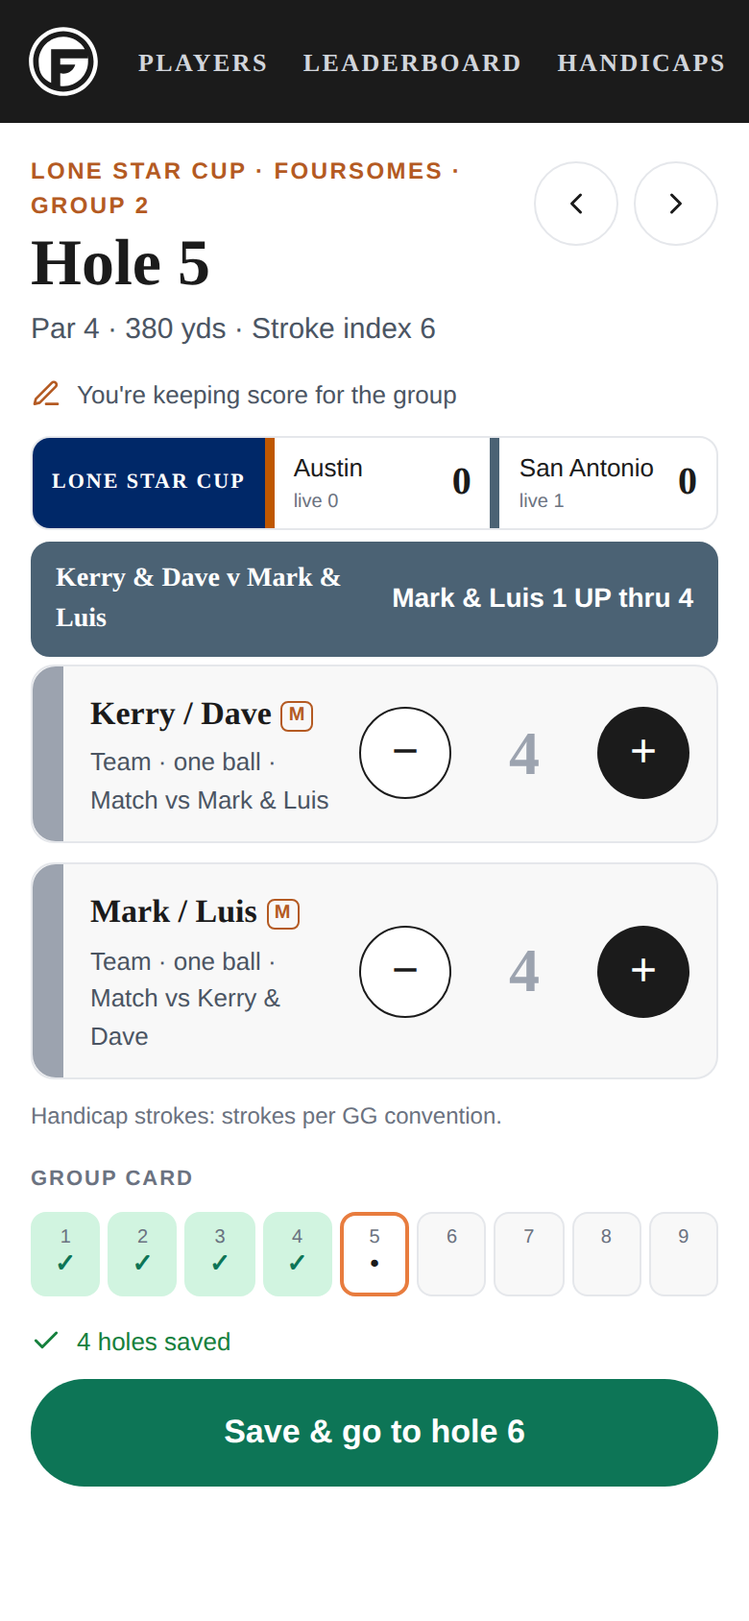
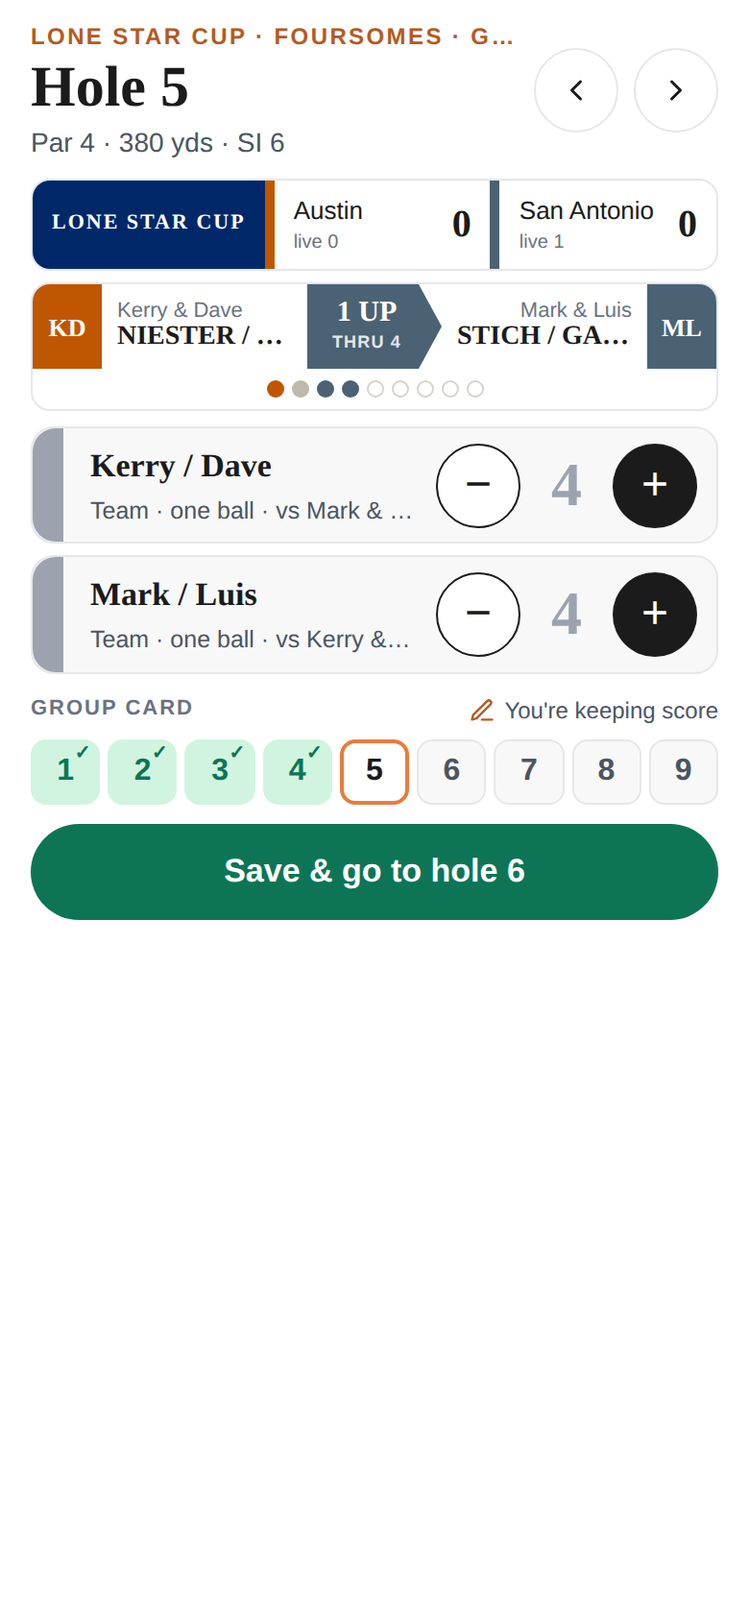
Score entry: standard match card, bigger group card, more room for names
Claude-Session: https://claude.ai/code/session_01PeGTnLppc6bpJPrSmUWsVP

diff --git a/transaction-tracker/templates/score_entry.html b/transaction-tracker/templates/score_entry.html
@@ -131,6 +131,50 @@
         /* Thin light lines between the columns (Kerry 2026-09-26). */
         .se-chk .se-check td + td, .se-chk .se-check th + th { border-left: 1px solid #ECEEF1; }
         .se-chk .se-check thead th + th { border-left-color: rgba(255,255,255,.14); }
+        /* THE STANDARD MATCH VIEW (Match Play tab look). */
+        .se-mcard { border: 1px solid #E5E7EB; border-radius: 10px; overflow: hidden; background: #FFFFFF; position: relative; }
+        .se-mc-head { display: block; width: 100%; padding: 0; border: none; background: none; cursor: pointer;
+                      font-family: inherit; color: inherit; text-align: left; }
+        .se-mc-strip { display: flex; align-items: stretch; min-height: 44px; }
+        .se-mc-mono { width: 36px; flex: none; display: flex; align-items: center; justify-content: center;
+                      font: 700 13px/1 Bitter, Georgia, serif; color: #FFFFFF; }
+        .se-mc-mono.a { background: var(--ma); } .se-mc-mono.b { background: var(--mb); }
+        .se-mc-name { flex: 1; min-width: 0; display: flex; flex-direction: column; justify-content: center; padding: 0 8px; }
+        .se-mc-name.r { align-items: flex-end; text-align: right; }
+        .se-mc-name em { font-style: normal; font-size: 11px; color: #6B7280; white-space: nowrap; overflow: hidden; text-overflow: ellipsis; max-width: 100%; }
+        .se-mc-name b { font: 700 14px/1.1 Bitter, Georgia, serif; text-transform: uppercase; white-space: nowrap;
+                        overflow: hidden; text-overflow: ellipsis; max-width: 100%; }
+        .se-mc-bar { flex: none; min-width: 70px; display: flex; flex-direction: column; align-items: center; justify-content: center;
+                     color: #FFFFFF; font: 700 15px/1 Bitter, Georgia, serif; padding: 0 8px; }
+        .se-mc-bar small { font: 600 9px/1.2 'Helvetica Neue', Helvetica, Arial, sans-serif; letter-spacing: .6px;
+                           text-transform: uppercase; opacity: .85; margin-top: 2px; }
+        .se-mc-bar.a { background: var(--ma); clip-path: polygon(12px 0, 100% 0, 100% 100%, 12px 100%, 0 50%); padding-left: 16px; }
+        .se-mc-bar.b { background: var(--mb); clip-path: polygon(0 0, calc(100% - 12px) 0, 100% 50%, calc(100% - 12px) 100%, 0 100%); padding-right: 16px; }
+        .se-mc-bar.tie { background: #BFB8AC; }
+        .se-mc-dots { display: flex; flex-wrap: wrap; justify-content: center; gap: 4px; padding: 6px 8px; }
+        .se-hd { width: 9px; height: 9px; border-radius: 50%; display: block; }
+        .se-hd.a { background: var(--ma); } .se-hd.b { background: var(--mb); } .se-hd.h { background: #BFB8AC; }
+        .se-hd.e { border: 1.5px solid #D6D3CC; }
+        .se-mcard.won::after { content: ""; position: absolute; top: 0; bottom: 0; width: 36%; left: -60%;
+            transform: skewX(-20deg); pointer-events: none;
+            background: linear-gradient(75deg, transparent, rgba(255,255,255,.45), transparent);
+            animation: seChampShine 3.4s ease-in-out infinite; }
+        .se-mcard.won { box-shadow: 0 0 0 2px #D4A017, 0 4px 14px rgba(212,160,23,.28); }
+        .se-mc-grid { border-top: 1px solid #E5E7EB; padding: 6px 6px 8px; }
+        .se-mc-grid table { width: 100%; border-collapse: collapse; table-layout: fixed; font-variant-numeric: tabular-nums; margin-bottom: 6px; }
+        .se-mc-grid th, .se-mc-grid td { text-align: center; font-size: 13px; padding: 4px 0; position: relative; }
+        .se-mc-grid th:first-child { width: 36px; }
+        .se-mc-grid tr.h td, .se-mc-grid tr.h th { background: #1B1B1B; color: #FFFFFF; font-size: 11px; font-weight: 700; }
+        .se-mc-grid tr.p td, .se-mc-grid tr.p th { color: #6B7280; font-size: 11px; }
+        .se-mc-grid td.dim { color: #C4C4C4; }
+        .se-mc-grid .w { display: inline-block; min-width: 22px; line-height: 20px; border-radius: 11px; color: #FFFFFF; font-weight: 700; }
+        .se-mc-grid .w.a { background: var(--ma); } .se-mc-grid .w.b { background: var(--mb); }
+        .se-mc-grid .pu { display: inline-block; min-width: 20px; line-height: 18px; border-radius: 10px; box-shadow: inset 0 0 0 1.5px #E87C3E; }
+        .se-mc-grid .pp { position: absolute; top: 1px; left: 0; right: 0; display: flex; justify-content: center; gap: 1px; }
+        .se-mc-grid .pp i { width: 4px; height: 4px; border-radius: 50%; background: #1B1B1B; display: block; }
+        .se-mc-chip { display: inline-block; min-width: 24px; padding: 2px 3px; border-radius: 4px; color: #FFFFFF; font: 700 10px Bitter, Georgia, serif; }
+        .se-mc-chip.a { background: var(--ma); } .se-mc-chip.b { background: var(--mb); }
+        .se-mc-note { font-size: 11px; color: #6B7280; text-align: center; }
         .se-lblrow { display: flex; justify-content: space-between; align-items: center; margin-top: 10px; }
         .se-keepnote { display: inline-flex; align-items: center; gap: 5px; font-size: 12px; color: #4B5563; }
         .se-keepnote svg { width: 14px; height: 14px; }
@@ -142,7 +186,8 @@
         .se-hole .se-nav { padding-top: 0; }
         .se-hole .se-mstrip { margin: 8px 0 2px; }
         .se-hole .se-stack { gap: 6px; margin-top: 8px; }
-        .se-hole .se-row { padding: 7px 10px; gap: 10px; }
+        .se-hole .se-row { padding: 7px 10px; gap: 4px; }
+        .se-hole .se-who { margin-right: 6px; }
         .se-hole .se-who { gap: 1px; }
         .se-hole .se-name { font-size: 17px; display: flex; align-items: center; min-width: 0; white-space: nowrap; }
         .se-hole .se-name .nm { overflow: hidden; text-overflow: ellipsis; min-width: 0; }
@@ -150,7 +195,7 @@
         .se-hole .se-meta { font-size: 12.5px; white-space: nowrap; overflow: hidden; text-overflow: ellipsis; }
         .se-hole .se-minus, .se-hole .se-plus { width: 44px; height: 44px; }
         .se-hole .se-pops { height: 44px; }
-        .se-hole .se-score { width: 46px; }
+        .se-hole .se-score { width: 40px; }
         .se-hole .se-popkey { margin-top: 6px; }
         .se-hole .se-cell { height: 34px; }
         .se-hole .se-pill { height: 50px; margin-top: 10px; }
@@ -161,10 +206,15 @@
         .se-cell { height: 44px; border-radius: 8px; display: flex; flex-direction: column; align-items: center;
                    justify-content: center; background: #F8F8F8; border: 1px solid #E5E7EB; cursor: pointer;
                    font-family: inherit; color: #1B1B1B; padding: 0; }
-        .se-cell .n { font-size: 10px; color: #6B7280; }
-        .se-cell .k { font-size: 13px; font-weight: 700; min-height: 16px; }
+        /* GROUP CARD (Kerry 2026-09-26: "Numbers ... should be bigger and centered
+           ... turn the same green and have the little checkmark in the upper
+           right"). */
+        .se-cell { position: relative; }
+        .se-cell .n { font-size: 16px; font-weight: 700; color: #4B5563; font-variant-numeric: tabular-nums; }
+        .se-cell .k { position: absolute; top: 2px; right: 4px; font-size: 10px; font-weight: 800; line-height: 1; }
         .se-cell.saved { background: #d1f4e0; border-color: #d1f4e0; color: #0d7556; }
-        .se-cell.saved .k { color: #0d7556; }
+        .se-cell.saved .n, .se-cell.saved .k { color: #0d7556; }
+        .se-cell.cur .n { color: #1B1B1B; }
         .se-cell.waiting { background: #FEF3C7; border-color: #FEF3C7; }
         .se-cell.cur { background: #FFFFFF; border: 2px solid #E87C3E; }
         .se-status { display: flex; align-items: center; gap: 8px; font-size: 13px; color: #15803D; margin: 14px 0 10px; }
@@ -279,46 +329,13 @@
         .se-card tr.me td.nm { box-shadow: inset 4px 0 0 #E87C3E; }
         /* MATCH STANDING while scoring (Kerry: "show match progress") */
         .se-mstrip { display: flex; flex-direction: column; gap: 6px; margin: 10px 0 4px; }
-        .se-mline { display: flex; justify-content: space-between; align-items: center; gap: 8px;
-                    padding: 8px 12px; border-radius: 10px; background: #FFF4EC; border: 1px solid #F5C8A8;
-                    font-size: 14px; white-space: normal; }
-        .se-mline .who { font-family: Bitter, Georgia, serif; font-weight: 700; }
-        .se-mline .st { font-weight: 700; color: #B45A22; white-space: nowrap; }
-        .se-mline.final { background: #F8F8F8; border-color: #E5E7EB; }
-        .se-mline.final .st { color: #1B1B1B; }
         /* A WON MATCH SHIMMERS (Kerry 2026-09-26: "kind of like our champion
            banner on the Points Races") — the champion plaque from
            contests.html: TGF-dark, gold frame, gold-gradient text, a slow
            shine sweeping across. */
-        .se-mline.won { position: relative; overflow: hidden; border: 1px solid #D4A017;
-            background: linear-gradient(135deg, #1B1B1B 0%, #2E2414 55%, #1B1B1B 100%);
-            box-shadow: inset 0 0 0 2px #1B1B1B, inset 0 0 0 3px rgba(212,160,23,.55), 0 4px 14px rgba(212,160,23,.28); }
-        .se-mline.won .who { color: #D4A017; }
-        .se-mline.won .st { font-family: Bitter, Georgia, serif; font-weight: 800; color: #FFD75E;
-            background: linear-gradient(100deg, #F7E7A0 0%, #FFD75E 35%, #E0A93C 62%, #F7E7A0 100%);
-            -webkit-background-clip: text; background-clip: text; -webkit-text-fill-color: transparent; }
-        .se-mline.won::after { content: ""; position: absolute; top: -60%; bottom: -60%; width: 36%; left: -60%;
-            transform: skewX(-20deg); pointer-events: none;
-            background: linear-gradient(75deg, transparent, rgba(255,255,255,.16), transparent);
-            animation: seChampShine 3.4s ease-in-out infinite; }
         /* LONE STAR CUP (Kerry 2026-09-26): "the match position banner needs to
            be the team color who's in the lead ... the shimmering banner needs to
            be color coordinated as well." Austin burnt orange, San Antonio slate. */
-        .se-mline.lead-austin { background: #BF5700; border-color: #BF5700; color: #FFFFFF; }
-        .se-mline.lead-sa { background: #4B6274; border-color: #4B6274; color: #FFFFFF; }
-        .se-mline.lead-austin .st, .se-mline.lead-sa .st { color: #FFFFFF; }
-        .se-mline.won.lead-austin { border-color: #FFD75E;
-            background: linear-gradient(135deg, #8A3F00 0%, #BF5700 55%, #8A3F00 100%);
-            box-shadow: inset 0 0 0 2px #8A3F00, inset 0 0 0 3px rgba(255,215,94,.7), 0 4px 14px rgba(191,87,0,.35); }
-        .se-mline.won.lead-sa { border-color: #FFD75E;
-            background: linear-gradient(135deg, #2F3F4C 0%, #4B6274 55%, #2F3F4C 100%);
-            box-shadow: inset 0 0 0 2px #2F3F4C, inset 0 0 0 3px rgba(255,215,94,.7), 0 4px 14px rgba(75,98,116,.35); }
-        .se-mline.won.lead-austin .who, .se-mline.won.lead-sa .who { color: #FFFFFF; }
-        .se-mline.won.lead-austin .st, .se-mline.won.lead-sa .st {
-            background: linear-gradient(100deg, #FFFFFF 0%, #FFE9A8 40%, #FFD75E 60%, #FFFFFF 100%);
-            -webkit-background-clip: text; background-clip: text; -webkit-text-fill-color: transparent; }
-        .se-mline.won.lead-austin::after, .se-mline.won.lead-sa::after {
-            background: linear-gradient(75deg, transparent, rgba(255,255,255,.28), transparent); }
         .se-x { font-family: Bitter, Georgia, serif; font-weight: 800; }
         @keyframes seChampShine { 0% { left: -60%; } 55% { left: 135%; } 100% { left: 135%; } }
         /* LONE STAR CUP team standings beside the match */
@@ -662,7 +679,7 @@
         function stripCells(order, current) {
             return order.map((n) => {
                 const cls = n === current ? "cur" : holeWaiting(n) ? "waiting" : holeDone(n) ? "saved" : "";
-                const mark = n === current ? "&bull;" : holeWaiting(n) ? "&hellip;" : holeDone(n) ? "&#10003;" : "";
+                const mark = n === current ? "" : holeWaiting(n) ? "&hellip;" : holeDone(n) ? "&#10003;" : "";
                 return `<button type="button" class="se-cell ${cls}" data-act="goto" data-h="${n}" aria-label="Hole ${n}"><span class="n">${n}</span><span class="k">${mark}</span></button>`;
             }).join("");
         }
@@ -689,19 +706,75 @@
             const cup = cs ? `<div class="se-cup"><span class="lbl">Lone Star Cup</span>
                 <span class="tm aus"><span>Austin<span class="proj">live ${half(cs.austin_projected)}</span></span><b>${half(cs.austin)}</b></span>
                 <span class="tm sa"><span>San Antonio<span class="proj">live ${half(cs.sa_projected)}</span></span><b>${half(cs.sa)}</b></span></div>` : "";
-            return `<div class="se-mstrip">${cup}${ms.map((m) => {
-                const vs = `${esc(m.names[0])} v ${esc(m.names[1])}`;
-                let st;
-                if (!m.thru) st = "Not started";
-                // A tie: the Lone Star Cup halves; regular-season Match Play
-                // settles it by its rulings (pool: may halve; knockout: extra
-                // holes or a putt-off), so the phone says all square, not halved.
-                else if (m.lead_side == null) st = m.final ? (m.tie_rule === "halve" ? "Halved" : `All square after ${m.thru}`) : `All square thru ${m.thru}`;
-                else st = `${esc(m.names[m.lead_side])} ${m.final ? "wins " + esc(m.margin) : esc(m.margin) + " thru " + m.thru}`;
-                const won = m.final && m.lead_side != null;
-                const lead = m.cup && m.lead_team ? " lead-" + m.lead_team : "";
-                return `<div class="se-mline ${won ? "won" : m.final && !lead ? "final" : ""}${lead}"><span class="who">${vs}</span><span class="st">${st}</span></div>`;
-            }).join("")}</div>`;
+            return `<div class="se-mstrip">${cup}${ms.map(matchCard).join("")}</div>`;
+        }
+        // THE STANDARD MATCH VIEW (Kerry 2026-09-26: "like the other match play
+        // page ... if I click it it will show that match scorecard below it and
+        // ... when it's collapsed it would show the colored dots ... something
+        // like attached because that will be a standard match play view").
+        // The Match Play tab's card: initials, first / LAST, the margin arrow in
+        // the leader's colour pointing at him, one dot per hole in play order
+        // (side A / side B / halved; hollow = not played or after the match was
+        // decided). Tap it for the hole-by-hole card. Cup colours in the Lone
+        // Star Cup (Austin / San Antonio), slate and clay otherwise.
+        const mOpen = new Set();
+        function matchCard(m) {
+            const cup = !!m.cup;
+            const col = cup ? ["#BF5700", "#4B6274"] : ["#2F5D74", "#C1673F"];
+            const fn = m.full_names || [[m.names[0]], [m.names[1]]];
+            const mono = (side) => side.map((n) => (String(n).trim()[0] || "")).join("")
+                + (side.length === 1 ? (String(side[0]).trim().split(/\s+/).slice(-1)[0] || "")[0] || "" : "");
+            const nm = (side, right) => {
+                const f = side.map((n) => String(n).trim().split(/\s+/)[0]).join(" & ");
+                const l = side.map((n) => String(n).trim().split(/\s+/).slice(1).join(" ")).join(" / ");
+                return `<span class="se-mc-name${right ? " r" : ""}"><em>${esc(f)}</em><b>${esc(l)}</b></span>`;
+            };
+            let bar, sub = "";
+            if (!m.thru) { bar = "tie"; sub = "vs"; }
+            else if (m.lead_side == null) { bar = "tie"; sub = m.final ? (m.tie_rule === "halve" ? "HALVED" : "AS") : "AS"; }
+            else { bar = m.lead_side === 0 ? "a" : "b"; sub = m.margin || ""; }
+            const thru = m.thru && !m.final ? `<small>thru ${m.thru}</small>` : m.final && m.thru ? `<small>final</small>` : "";
+            const won = m.final && m.lead_side != null;
+            const holes = (m.card || []).slice().sort((x, y) => (x.order || 0) - (y.order || 0));
+            const dead = (h) => m.closed_at != null && h.order > m.closed_at;
+            const dots = holes.map((h) => {
+                const c = h.w == null || dead(h) ? "e" : h.w === 1 ? "a" : h.w === 2 ? "b" : "h";
+                return `<i class="se-hd ${c}"></i>`;
+            }).join("");
+            const open = mOpen.has(m.match_id);
+            const vs = `${esc(m.names[0])} v ${esc(m.names[1])}`;
+            const st = !m.thru ? "Not started" : m.lead_side == null
+                ? (m.final ? (m.tie_rule === "halve" ? "Halved" : `All square after ${m.thru}`) : `All square thru ${m.thru}`)
+                : `${esc(m.names[m.lead_side])} ${m.final ? "wins " + esc(m.margin) : esc(m.margin) + " thru " + m.thru}`;
+            return `<div class="se-mcard${won ? " won" : ""}${m.cup && m.lead_team ? " lead-" + m.lead_team : ""}" style="--ma:${col[0]};--mb:${col[1]}">
+                <button type="button" class="se-mc-head" data-act="mtoggle" data-m="${esc(m.match_id)}" aria-expanded="${open}" aria-label="${vs}: ${st}. Tap for the match card.">
+                  <span class="se-mc-strip">
+                    <span class="se-mc-mono a">${esc(mono(fn[0]))}</span>${nm(fn[0], false)}
+                    <span class="se-mc-bar ${bar}">${esc(sub)}${thru}</span>
+                    ${nm(fn[1], true)}<span class="se-mc-mono b">${esc(mono(fn[1]))}</span>
+                  </span>
+                  <span class="se-mc-dots">${dots}</span>
+                </button>
+                ${open ? matchGrid(m, holes, fn, dead) : ""}
+              </div>`;
+        }
+        function matchGrid(m, holes, fn, dead) {
+            const blocks = holes.length > 9 ? [holes.slice(0, 9), holes.slice(9)] : [holes];
+            const initials = (side) => side.map((n) => String(n).trim()[0] || "").join("");
+            const row = (k, list) => list.map((h) => {
+                const g = h.g[k], won = h.w === k + 1;
+                const v = g == null ? "" : h.pu[k] ? (m.cup ? "X" : `<span class="pu">${g}</span>`) : g;
+                const pops = h.s[k] ? `<span class="pp">${"<i></i>".repeat(Math.min(h.s[k], 3))}</span>` : "";
+                return `<td class="${dead(h) ? "dim" : ""}">${won ? `<span class="w ${k ? "b" : "a"}">${v}</span>` : v}${pops}</td>`;
+            }).join("");
+            const tot = (k, list) => list.reduce((a, h) => a + (h.g[k] != null && !h.pu[k] ? h.g[k] : h.g[k] || 0), 0) || "";
+            return `<div class="se-mc-grid">${blocks.map((list) => `<table>
+                <tr class="h"><th></th>${list.map((h) => `<td>${h.hole}</td>`).join("")}<th>Tot</th></tr>
+                <tr class="p"><th>Par</th>${list.map((h) => `<td>${info(h.hole).par || ""}</td>`).join("")}<th>${list.reduce((a, h) => a + (info(h.hole).par || 0), 0) || ""}</th></tr>
+                <tr><th><span class="se-mc-chip a">${esc(initials(fn[0]))}</span></th>${row(0, list)}<th>${tot(0, list)}</th></tr>
+                <tr><th><span class="se-mc-chip b">${esc(initials(fn[1]))}</span></th>${row(1, list)}<th>${tot(1, list)}</th></tr>
+              </table>`).join("")}
+              <div class="se-mc-note">Circled: won the hole · dots: match strokes · grey: after the match was decided</div></div>`;
         }
         const helpBtn = (k) => `<button type="button" class="se-help ${help[k] ? "on" : ""}" data-act="help" data-k="${k}" aria-expanded="${help[k] ? "true" : "false"}">How It Works</button>`;
         const helpText = (k, t) => help[k] ? `<div class="se-helptext">${t}</div>` : "";
@@ -1176,6 +1249,11 @@
             const b = e.target.closest("button[data-act]");
             if (!b) return;
             const act = b.dataset.act;
+            if (act === "mtoggle") {
+                const id = b.dataset.m;
+                if (mOpen.has(id)) mOpen.delete(id); else mOpen.add(id);
+                render(); return;
+            }
             if (act === "stafflogin") {
                 const pin = (document.getElementById("se-pin") || {}).value || "";
                 fetch("/api/auth/login", {method: "POST", headers: {"Content-Type": "application/json"}, body: JSON.stringify({pin})})

diff --git a/transaction-tracker/static/js/version.js b/transaction-tracker/static/js/version.js
@@ -1,5 +1,15 @@
-window.TGF_VERSION = "2.500.11";
+window.TGF_VERSION = "2.500.12";
 window.TGF_CHANGELOG = [
+  {
+    version: "2.500.12",
+    date: "2026-09-26",
+    title: "Score entry: the standard match card, a bigger group card, more room for names",
+    changes: [
+      "Kerry, 2026-09-26: 'For the match bar ... make it like the other match play page ... if I click it it will show that match scorecard below it and ... when it's collapsed it would show the colored dots ... something like attached because that will be a standard match play view.' The match banner is now the Match Play tab's card: initials, first / LAST, the margin arrow in the leader's colour pointing at him (with 'thru N' or 'final'), and a dot per hole in play order (each side's colour, grey halved, hollow unplayed or after the match was decided). Tap it for the hole-by-hole card: winners circled in their colour, match-stroke dots, pickups ringed (X in the cup), dead holes grey. Lone Star Cup matches use Austin / San Antonio colours, others slate / clay; a won match keeps its gold frame and shine.",
+      "Kerry: 'less padding between the numbers and +/- buttons which will provide more room for names on the left.' The score column and its gaps are narrower on the hole screen.",
+      "Kerry: 'Numbers on the group card below scoring should be bigger and centered ... turn the same green and have the little checkmark in the upper right.' Hole numbers are 16 px and centred; a saved hole turns green with a small check in its top-right corner."
+    ]
+  },
   {
     version: "2.500.11",
     date: "2026-09-26",

diff --git a/transaction-tracker/test_score_entry_ui.py b/transaction-tracker/test_score_entry_ui.py
@@ -366,7 +366,8 @@ with sync_playwright() as p:
     se.set_round_matches(ridm, [{"id": "M1", "format": "singles", "sides": [[101], [102]]}])
     pg = open_as_kerry(tokm)
     check("the hole screen shows the match standing",
-          pg.locator(".se-mline").count() == 1 and "Kerry v Mark" in pg.inner_text(".se-mline"))
+          pg.locator(".se-mcard").count() == 1 and "NIESTER" in pg.inner_text(".se-mcard").upper()
+          and "Kerry v Mark" in pg.locator(".se-mc-head").get_attribute("aria-label"))
     check("no M tag; each match player reads 'vs' his opponent on the hole screen",
           pg.locator(".se-mtag").count() == 0 and "vs Mark" in pg.inner_text("body"))
     for _ in range(4):
@@ -385,7 +386,14 @@ with sync_playwright() as p:
     card = se.get_group_card(gidm)
     pg.wait_for_timeout(300)
     check("after hole 1 (Mark picked up) the standing reads Kerry 1 UP thru 1",
-          "Kerry 1 UP thru 1" in pg.inner_text(".se-mline"), pg.inner_text(".se-mline"))
+          "Kerry 1 UP thru 1" in pg.locator(".se-mc-head").get_attribute("aria-label")
+          and pg.locator(".se-mc-bar.a").count() == 1 and pg.locator(".se-hd.a").count() == 1,
+          pg.locator(".se-mc-head").get_attribute("aria-label"))
+    pg.click("[data-act=mtoggle]")
+    check("tapping the match opens its hole-by-hole card; hole 1 is circled for Kerry",
+          pg.locator(".se-mc-grid").count() == 1 and pg.locator(".se-mc-grid .w.a").count() == 1)
+    pg.click("[data-act=mtoggle]")
+    check("tapping again closes it", pg.locator(".se-mc-grid").count() == 0)
     check("Picked up is stored beside the 7; the card still says 7",
           card["marks"].get("c:102") == {"1": "picked_up"} and card["scores"]["c:102"]["1"] == 7, card["marks"])
     play(pg, 8)
@@ -425,10 +433,10 @@ with sync_playwright() as p:
     check("X is stored as the triple with the Picked up mark",
           cc["scores"]["c:102"]["1"] == 7 and cc["marks"].get("c:102") == {"1": "picked_up"}, (cc["scores"], cc["marks"]))
     pc.reload(); pc.wait_for_selector("text=You're keeping score")
-    ml = pc.locator(".se-mline")
+    ml = pc.locator(".se-mcard")
     check("Kerry (Austin) leads, so the banner is Austin's colour",
           "lead-austin" in ml.get_attribute("class")
-          and ml.evaluate("e => getComputedStyle(e).backgroundColor") == "rgb(191, 87, 0)", ml.get_attribute("class"))
+          and pc.locator(".se-mc-bar.a").evaluate("e => getComputedStyle(e).backgroundColor") == "rgb(191, 87, 0)", ml.get_attribute("class"))
     play(pc, 8)
     pc.wait_for_selector("text=Check the card")
     pc.wait_for_timeout(1200)
@@ -443,7 +451,7 @@ with sync_playwright() as p:
           se.get_group_card(gidc)["marks"].get("c:102") == {"1": "picked_up", "2": "picked_up"}
           and se.get_group_card(gidc)["scores"]["c:102"]["2"] == 8)
     pc.wait_for_timeout(800)
-    wl = pc.locator(".se-mline")
+    wl = pc.locator(".se-mcard")
     check("a won cup match shimmers in the winner's colour",
           "won" in wl.get_attribute("class") and "lead-austin" in wl.get_attribute("class"), wl.get_attribute("class"))
     db.set_app_setting("lsc_matches", "")

diff --git a/transaction-tracker/email_parser/score_entry.py b/transaction-tracker/email_parser/score_entry.py
@@ -243,11 +243,12 @@ def _match_status(conn, g) -> list:
     course = [dict(h) for h in conn.execute(
         "SELECT hole_number AS hole, par, stroke_index FROM se_round_holes WHERE round_id = ? "
         "ORDER BY hole_number", (g["round_id"],))]
-    phs, names = {}, {}
+    phs, names, full = {}, {}, {}
     for p in conn.execute("SELECT customer_id, display_name, playing_handicap FROM se_players "
                           "WHERE round_id = ?", (g["round_id"],)):
         phs[p[0]] = p[2]
         names[p[0]] = (p[1] or "").split(" ")[0]
+        full[p[0]] = p[1] or ""
     scores: dict = {}
     for s_ in conn.execute("SELECT customer_id, team_customer_id_a, hole_number, gross FROM se_hole_scores "
                            "WHERE round_id = ? AND gross IS NOT NULL", (g["round_id"],)):
@@ -283,7 +284,19 @@ def _match_status(conn, g) -> list:
                     "lead_side": (w - 1) if w else None, "margin": d.get("gg_margin"),
                     "thru": d.get("thru") or 0,
                     "final": bool(d.get("closed_at_order")) or (d.get("thru") or 0) >= e["n_holes"],
-                    "holes": {str(h["hole"]): h["winner"] for h in d["holes"] if h["winner"] is not None}})
+                    "holes": {str(h["hole"]): h["winner"] for h in d["holes"] if h["winner"] is not None},
+                    # THE STANDARD MATCH VIEW (Kerry 2026-09-26: "something like
+                    # attached because that will be a standard match play view"):
+                    # full names for the strip, where the match closed (holes after
+                    # it are dead), and each hole's side-line gross, match strokes
+                    # and pickups for the tap-open card.
+                    "full_names": [[full.get(c) or "#%s" % c for c in sd] for sd in sides],
+                    "closed_at": d.get("closed_at_order"),
+                    "card": [{"hole": h["hole"], "order": h.get("order"), "w": h["winner"],
+                              "g": [h.get("p1_gross"), h.get("p2_gross")],
+                              "s": [h.get("p1_strokes") or 0, h.get("p2_strokes") or 0],
+                              "pu": [bool(h.get("p1_picked_up")), bool(h.get("p2_picked_up"))]}
+                             for h in d["holes"]]})
     return out
 
 
